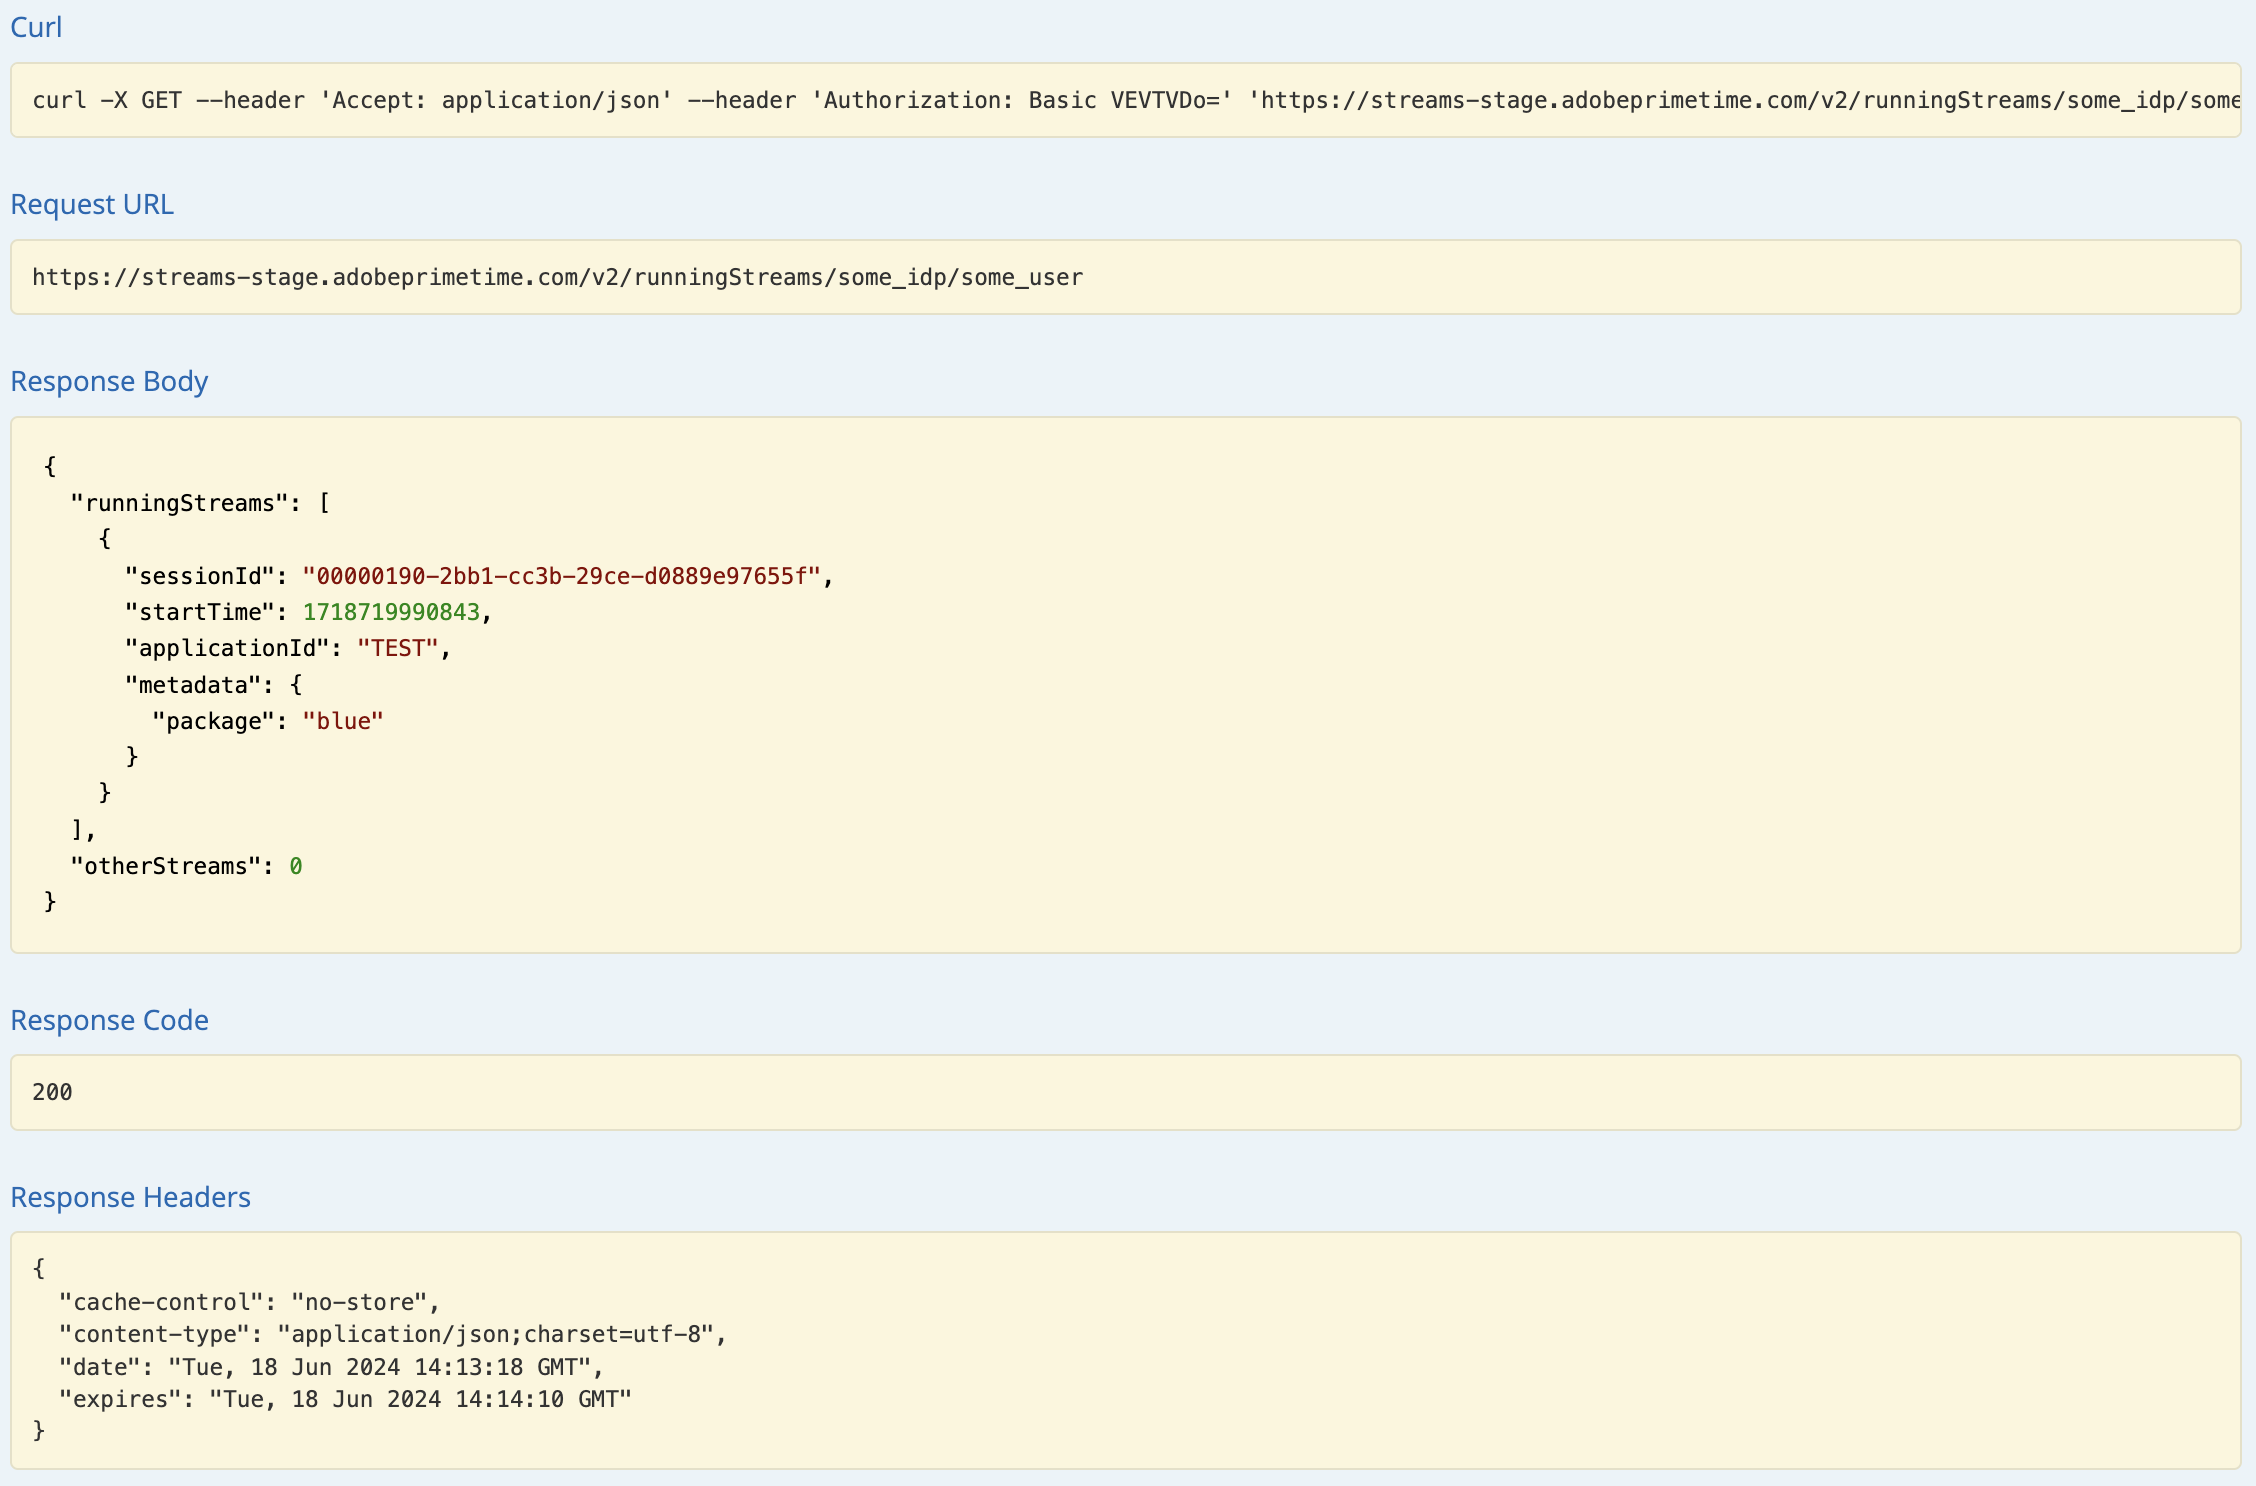
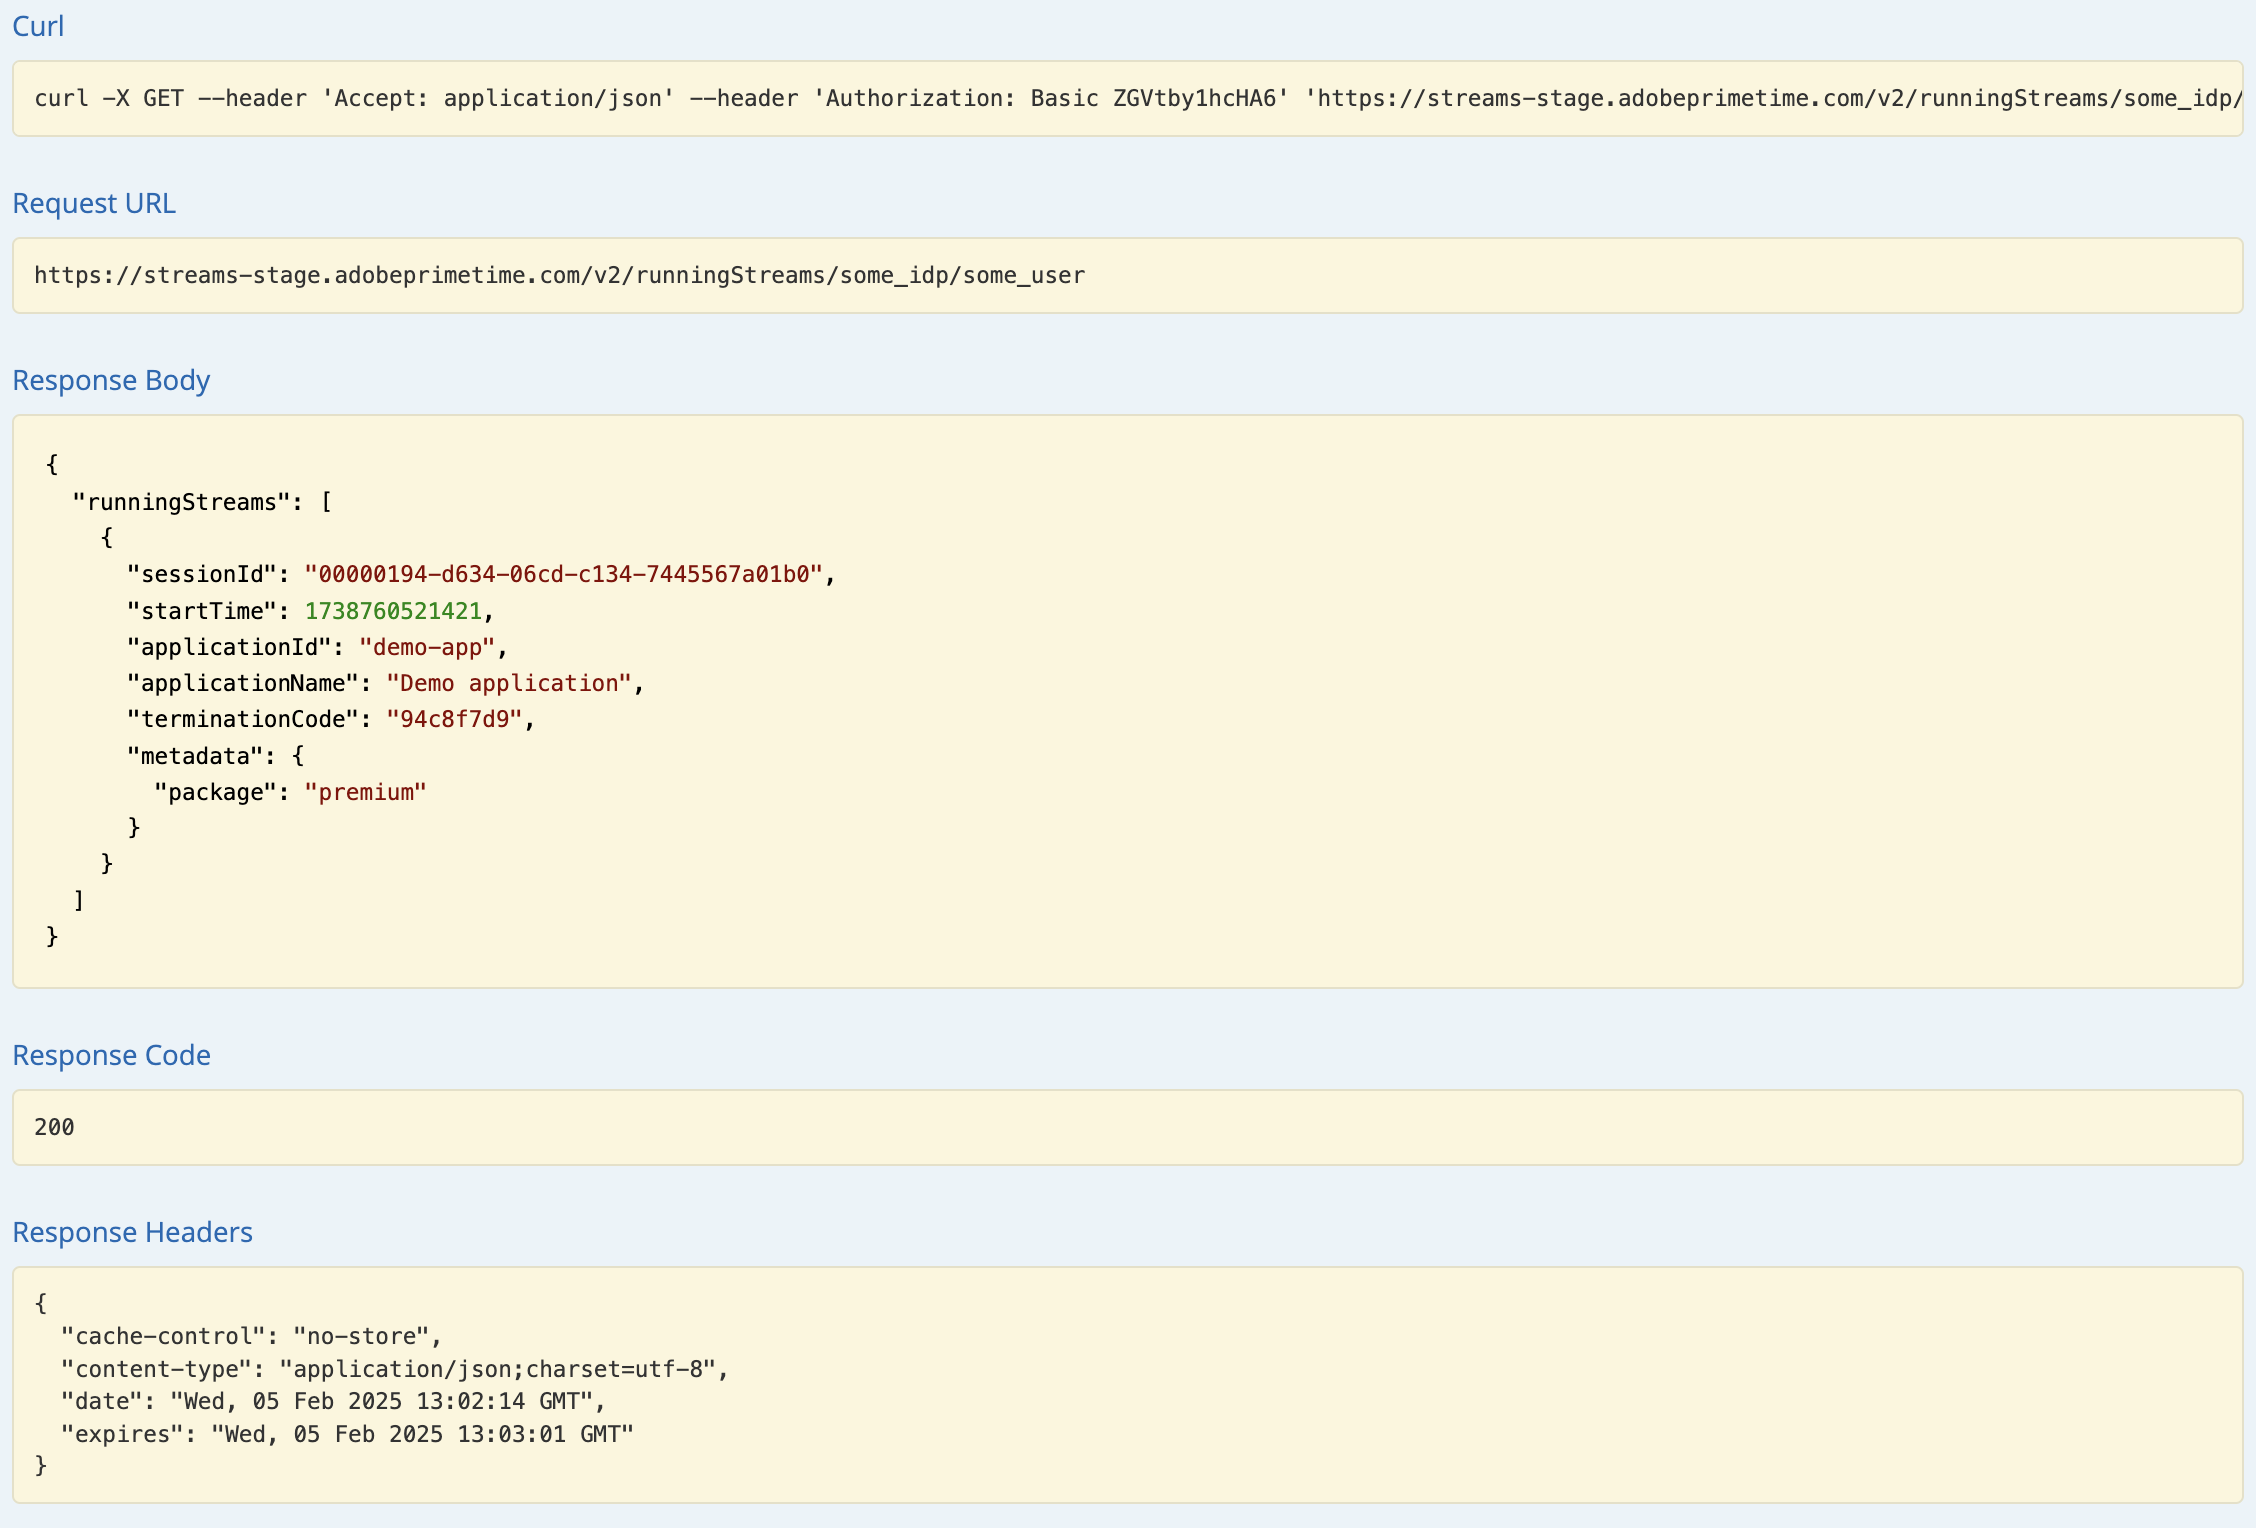
[PCM-2466] Update CM documentation

diff --git a/help/concurrency-monitoring/cm-api-overview.md b/help/concurrency-monitoring/cm-api-overview.md
@@ -67,12 +67,27 @@ Make the session initialization call. You will get the following response:
 
 All the data we need is contained in the response headers. The **Location** header represents the id of the new created session and the **Date** and **Expires** headers represent the values used to schedule your application to make the next heartbeat in order to keep the session alive.
 
+With every call you are allowed to send any metadata that you need, not only the mandatory metadata for you application. Sending metadata can be achieved in 2 ways:
+* using **query** **parameters**:
+
+  ```sh
+  curl -i -XPOST -u "user:pass" "https://streams-stage.adobeprimetime.com/v2/sessions/some_idp/some_user?metadata1=value1&metadata2=value2"
+  ```
+  
+* using **request** **body**:
+
+  ```sh
+  curl -i -XPOST -u "user:pass" https://streams-stage.adobeprimetime.com/v2/sessions/some_idp/some_user -d "metadata1=value1" -d "metadata2=value2" -H "Content-Type=application/x-www-form-urlencoded"
+  ```
+
 #### Heartbeat {#heartbeat} 
 
 Make a heartbeat call. Provide the **session id** obtained in the session initialization call, along with the **subject** and **idp** parameters used.
 
 ![](assets/heartbeat.png)
 
+For heartbeat call you are allowed to send metadata in the same way you're doing for session init. One can add anytime new metadata and can update previously sent values with some **exceptions**. The following values, once set, cannot be changed: **package**, **channel**, **platform**, **assetId**, **idp**, **mvpd**, **hba_status**, **hba**,
+**mobileDevice**
 
 If the session is still valid (it has not expired or has been manually deleted), you will receive a successful result: 
 
@@ -105,8 +120,11 @@ When you make the call you'll get the following response:
 
 ![](assets/get-all-running-streams-success.png)
 
-Please note the **Expires** header. That is the time when the first session should expire unless a heartbeat is sent. OtherStreams has value 0 because there are no other streams running for this user on other tenant's applications.
+For each sessions one will get the **terminationCode** and complete metadata.
+
+Please note the **Expires** header. That is the time when the first session should expire unless a heartbeat is sent.
 The metadata field will be populated with all the metadata sent when the session started. We do not filter it, you'll receive everything you sent.
+The response include all streams running on other tenants' apps as long as the apps are sharing the same policy.
 If there are no running sessions for a specific user when you do the call you'll get this response:
 
 ![](assets/get-all-running-streams-empty.png)
@@ -120,8 +138,13 @@ In order to simulate the behavior of our application when the 3 streams policy a
  
 ![](assets/breaking-policy-frstapp.png)
 
+We get a 409 CONFLICT response along with an evaluation result object in the payload. This indicates that the server-side policies do not allow this session to be created or to continue. The response body will contain an EvaluationResult object with a non-empty AssociatedAdvice, which is the list of Advice objects containing explanations for each rule violation.
 
-We get a 409 CONFLICT response along with an evaluation result object in the payload. Read a complete description of the evaluation result in the [Swagger API specification](http://docs.adobeptime.io/cm-api-v2/#evaluation-result).
+The application should prompt the user with the error message(s) carried by each Advice instance. Also, every advice also indicates the rule details like attribute, threshold, rule and policy names. Moreover, the conflicting values will also be included with the list of active sessions for each value.
+
+This information is intended for advanced error message formatting and for allowing the user to take action regarding the conflicting sessions.
+
+Every conflicting session will carry a **terminationCode** that can be used for **killing** that stream. This way, the application may allow the user to choose what session(s) to terminate in order to try to gain access for the current session.
 
 The application can use the information from the evaluation result to display a certain message to the user when stopping the video and to take further actions if needed. One use case can be to stop other existing streams in order to start a new one. This is done by using the **terminationCode** value present in the **conflicts** field for a specific conflicting attribute. The value will be provided as the X-Terminate HTTP header in the call for a new session initialization.                                    
 
@@ -130,6 +153,30 @@ The application can use the information from the evaluation result to display a 
 When providing one or more termination codes at session initialization the call will succeed and a new session will be generated. Then if we try and make a heartbeat with one of the sessions that have been remotely stopped we will get a 410 GONE response back with an evaluation result payload that describes the fact that the session has been remotely terminated, like in the example: 
 
 ![](assets/remote-termination.png)
+
+410 can be returned with or without a body, based on what caused the current session to be terminated.
+
+When the response has no body, 410 means that a heartbeat (or termination) call is attempted for a session that is no longer active (due to timeout or a previous conflict or whatever). The only way to recover from this state is for the application to initiate a new session. Since there is no body, the application is supposed to handle this error without the user being aware of it.
+
+On the other hand, when a response body is provided, the application needs to look within the **associatedAdvice** attribute to find a **remote-termination** advice that indicates the remote session that was initiated with an explicit intention of **killing** the current one. This should result in an error message like "Your session was kicked out by device/application".
+
+### Response Body {#response-body} 
+
+For all the session lifecycle API calls, the the response body (when present) will be a JSON object containing the following fields:
+
+![](assets/body_small.png) 
+
+**Advice**
+The **EvaluationResult** will include an array of Advice objects under **associatedAdvice**. The advices are intended for the application to display a comprehensive error message for the user and (potentially) allow the user to take action.
+
+Currently, there are two types of advices (specified by their **type** attribute value): **rule-violation** and **remote-termination**. The first one provides details regarding a rule that was broken and the sessions that are conflicting with the current one (including the terminate attribute that can be used to terminate that session remotely). The second is just stating that the current session was deliberately terminated by a remote one, so the users will know who kicked them out when the limits were reached.
+
+![](assets/advices.png) 
+
+**Obligation**
+The evaluation may also contain one or more predefined actions that must be triggered by the application as a result of this evaluation.
+
+![](assets/obligation.png) 
 
 ### Second application {#second-application} 
 
